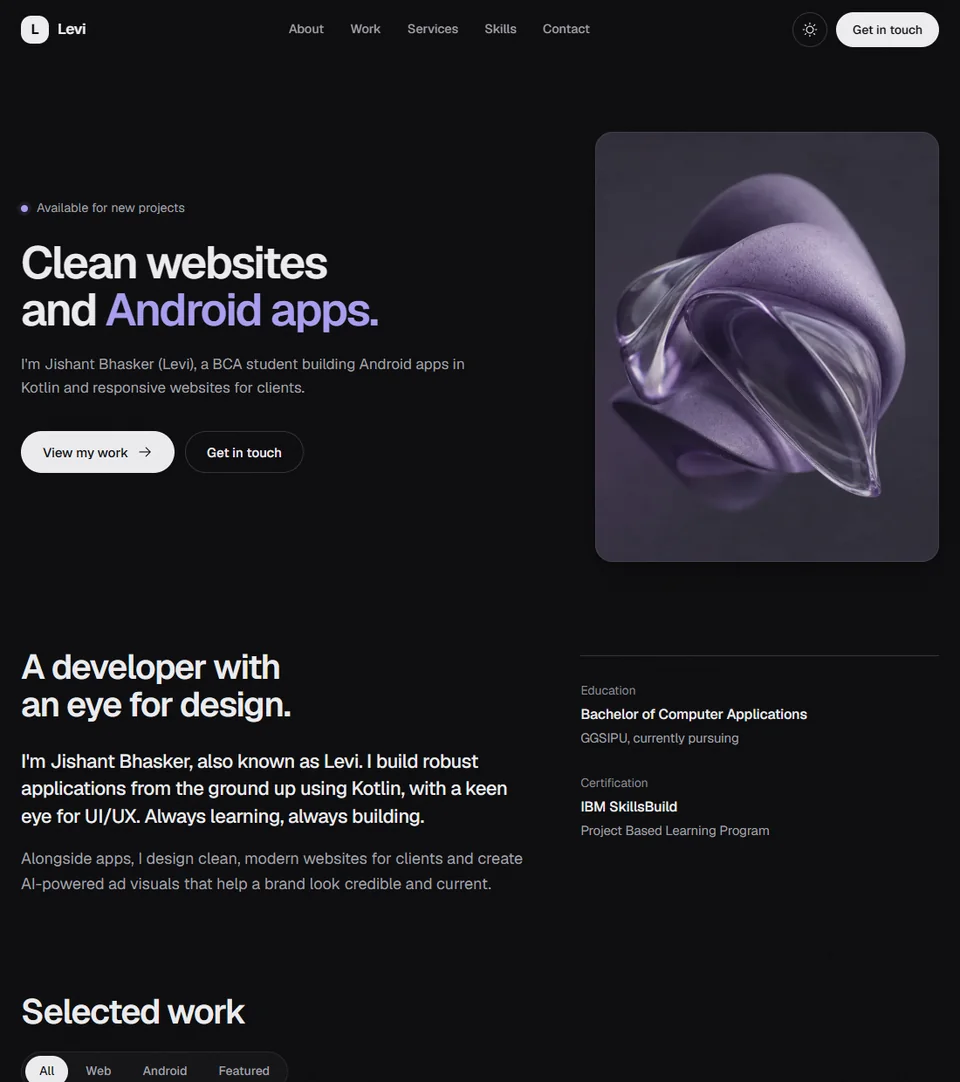
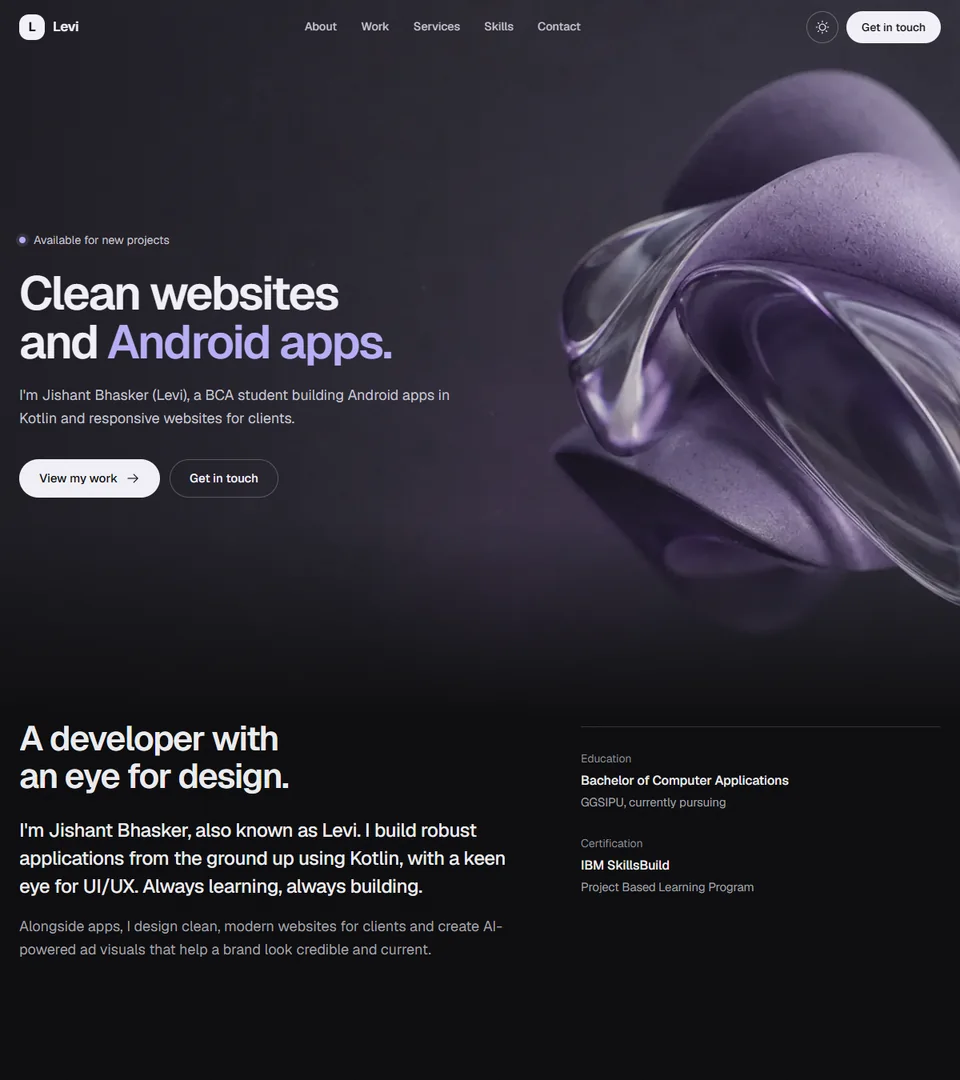
Use the abstract art as full-bleed hero backgrounds, not image cards
- Home hero: the sculpture is now the section background with the text over
  the calm left side (wide art for desktop/landscape, tall art for portrait
  phones and tablets); services hero uses the glass-slab art the same way
- Header goes light-on-dark over the art and gets its normal background on
  scroll; tokens re-pointed inside .art-band so both themes work
- Art melts into the page in dark theme; clean straight edge in light theme
- Portrait art is bottom-anchored with padding derived from the image's
  proportions, so the artwork never sits behind the buttons at any width
- Landscape: text column capped to ~half width; short landscape phones keep
  the CTAs above the fold
- Project tiles: art covers removed; only the real screenshot of this site
  keeps an image, others use a quiet placeholder until real screenshots exist
- Tests: contrast measured against the actual pixels behind each hero text
  element (WCAG AA) at six sizes

diff --git a/css/style.css b/css/style.css
@@ -47,6 +47,7 @@
   --shadow-md: 0 24px 48px -24px rgba(40, 32, 110, 0.32), 0 2px 6px rgba(40, 32, 110, 0.05);
 
   --grain-opacity: 0.045;
+  --page-bg: var(--bg); /* the real page background, even inside a dark art band */
 
   --r-lg: 20px;
   --r-sm: 12px;
@@ -299,12 +300,47 @@ h2.section-title {
 .hero + .section, .section + .section { padding-top: 0; }
 .section-head { margin-bottom: clamp(32px, 4.5vw, 56px); }
 
-/* ---------- Hero ---------- */
-.hero { padding: clamp(24px, 5vw, 64px) 0 clamp(64px, 9vw, 120px); }
-.hero-grid {
-  display: grid; grid-template-columns: minmax(0, 1.2fr) minmax(0, 0.8fr);
-  gap: clamp(32px, 6vw, 88px); align-items: center;
+/* ---------- Art bands (home hero + services hero) ----------
+   The artwork is a full-bleed background behind the text, never a boxed card.
+   Inside a band the tokens are re-pointed to a dark palette, so every child
+   (headline, buttons, status) is light-on-dark automatically in BOTH themes.
+   The band melts into the page at the bottom, so there is no hard seam. */
+.art-band {
+  position: relative; isolation: isolate;
+  --ink: #f2f0f7; --bg: #09090b; --surface: #15151a;
+  --muted: #c6c5d2; --faint: #a6a5b4;
+  --line: rgba(255, 255, 255, 0.1); --line-strong: rgba(255, 255, 255, 0.24);
+  --accent: #b6adf6; --accent-soft: rgba(182, 173, 246, 0.14);
+  color: var(--ink);
+  background-color: #1d1c24;
+  /* sit behind the transparent sticky header */
+  margin-top: calc(var(--header-h) * -1);
+  padding-top: var(--header-h);
 }
+.art-band::before {
+  content: ''; position: absolute; inset: 0; z-index: -2;
+  background-image: var(--band-art); background-repeat: no-repeat;
+  background-size: cover; background-position: 50% 50%;
+}
+.art-band::after {
+  content: ''; position: absolute; inset: 0; z-index: -1; pointer-events: none;
+  background:
+    linear-gradient(180deg, transparent 72%, var(--page-bg) 100%),
+    linear-gradient(90deg, rgba(9, 9, 11, 0.5) 0%, rgba(9, 9, 11, 0.12) 52%, transparent 78%);
+}
+/* Light theme: end the band with a clean straight edge (a dark-to-light fade would look muddy grey) */
+:root:not([data-theme='dark']) .art-band::after {
+  background: linear-gradient(90deg, rgba(9, 9, 11, 0.5) 0%, rgba(9, 9, 11, 0.12) 52%, transparent 78%);
+}
+
+.hero {
+  --band-art: url('../images/hero-bg.webp');
+  display: flex; align-items: center;
+  min-height: 640px;
+  min-height: clamp(600px, 92vh, 900px);
+  padding-bottom: clamp(72px, 9vw, 128px);
+}
+.hero-copy { max-width: 640px; padding-top: clamp(16px, 4vw, 56px); }
 .status {
   display: inline-flex; align-items: center; gap: 10px; margin-bottom: 24px;
   font-size: 0.9rem; color: var(--muted);
@@ -313,19 +349,16 @@ h2.section-title {
   content: ''; width: 8px; height: 8px; border-radius: 50%; background: var(--accent);
   box-shadow: 0 0 0 4px var(--accent-soft);
 }
-.hero h1 { font-size: clamp(2.5rem, 4.7vw, 4rem); margin-bottom: 22px; }
+.hero h1 { font-size: clamp(2.5rem, 4.9vw, 4.25rem); margin-bottom: 22px; }
 .hero .lead { margin-bottom: 36px; }
 .hero-cta { display: flex; flex-wrap: wrap; gap: 12px; }
 
-.hero-media {
-  position: relative; aspect-ratio: 4 / 5; margin-top: 28px;
-  border-radius: var(--r-lg); overflow: hidden;
-  background: #1b1a22; box-shadow: var(--shadow-md);
-}
-.hero-media img { width: 100%; height: 100%; object-fit: cover; object-position: 52% 50%; }
-.hero-media::after {
-  content: ''; position: absolute; inset: 0; border-radius: inherit; pointer-events: none;
-  box-shadow: inset 0 0 0 1px rgba(255, 255, 255, 0.08);
+/* The header sits on dark art at the top of the page: light header until it gets its own background */
+.has-hero-art .site-header:not(.is-scrolled):not(.menu-open) {
+  --ink: #f2f0f7; --bg: #09090b; --surface: #15151a;
+  --muted: #c6c5d2; --line-strong: rgba(255, 255, 255, 0.28);
+  --accent: #b6adf6; --accent-soft: rgba(182, 173, 246, 0.16);
+  color: var(--ink);
 }
 
 /* ---------- Work ---------- */
@@ -366,7 +399,11 @@ h2.section-title {
 @media (hover: hover) { .tile:hover .tile-media img { transform: scale(1.035); } }
 
 /* when a project has no image, fall back to a quiet tinted tile with an icon */
-.tile-fallback { display: grid; place-items: center; width: 100%; height: 100%; color: var(--faint); background: var(--accent-soft); }
+.tile-fallback {
+  display: grid; place-items: center; width: 100%; height: 100%; color: var(--accent);
+  background-color: var(--accent-soft);
+  background-image: radial-gradient(var(--line-strong) 1px, transparent 1.2px); background-size: 18px 18px;
+}
 .tile-fallback .icon { width: 44px; height: 44px; }
 
 .tile-body { display: grid; gap: 8px; }
@@ -497,8 +534,14 @@ h2.section-title {
 @media (hover: hover) { .back-to-top:hover { border-color: var(--ink); } }
 
 /* ---------- Services page ---------- */
-.page-hero { padding: clamp(40px, 7vw, 96px) 0 clamp(40px, 6vw, 72px); }
-.page-hero h1 { font-size: clamp(2.4rem, 5.6vw, 4.5rem); max-width: 17ch; margin-bottom: 24px; }
+.page-hero {
+  --band-art: url('../images/services-bg.webp');
+  display: flex; align-items: center;
+  min-height: clamp(420px, 60vh, 560px);
+  padding-bottom: clamp(56px, 7vw, 96px);
+}
+.page-hero .container { padding-top: clamp(16px, 3vw, 40px); }
+.page-hero h1 { font-size: clamp(2.4rem, 4.5vw, 3.9rem); max-width: 16ch; margin-bottom: 24px; }
 
 .offers { display: grid; grid-template-columns: repeat(2, minmax(0, 1fr)); gap: 24px; }
 .offer {
@@ -538,8 +581,6 @@ h2.section-title {
 
 /* ---------- Responsive ---------- */
 @media (max-width: 1020px) {
-  .hero-grid { grid-template-columns: 1fr; }
-  .hero-media { aspect-ratio: 16 / 11; margin-top: 8px; max-width: 640px; }
   .about-grid { grid-template-columns: 1fr; }
   .bento { grid-template-columns: minmax(0, 1fr); }
   .bento-a, .bento-b, .bento-c { grid-column: auto; }
@@ -589,7 +630,6 @@ h2.section-title {
   .step:last-child { padding-bottom: 0; }
   .step::before { top: 4px; left: -36px; }
   .filters { width: 100%; justify-content: space-between; overflow-x: auto; }
-  .hero-media { aspect-ratio: 4 / 3; max-width: none; }
 
   /* email menu becomes a bottom sheet on phones */
 }
@@ -612,6 +652,55 @@ h2.section-title {
   }
   .mail-menu.is-open { transform: none; }
   .mail-menu a, .mail-menu button { min-height: 52px; }
+}
+
+/* ---------- Art bands on smaller screens ----------
+   Narrow or landscape-phone windows keep the wide art but get a stronger scrim behind the text.
+   Portrait screens up to 1100px switch to the tall art: it is anchored to the bottom at full width
+   and the bottom padding is derived from the image's own proportions, so the sculpture always
+   starts below the buttons, at every width (no overlap, no matter how the text wraps). */
+@media (max-width: 1100px) {
+  .art-band::after {
+    background:
+      linear-gradient(180deg, transparent 80%, var(--page-bg) 100%),
+      linear-gradient(90deg, rgba(9, 9, 11, 0.78) 0%, rgba(9, 9, 11, 0.55) 48%, rgba(9, 9, 11, 0.1) 80%);
+  }
+  :root:not([data-theme='dark']) .art-band::after {
+    background: linear-gradient(90deg, rgba(9, 9, 11, 0.78) 0%, rgba(9, 9, 11, 0.55) 48%, rgba(9, 9, 11, 0.1) 80%);
+  }
+}
+
+/* Landscape windows/phones: keep the text in the left half, where the art is calm */
+@media (max-width: 1100px) and (orientation: landscape) {
+  .hero-copy { max-width: 54%; }
+  .page-hero h1, .page-hero .lead { max-width: 54%; }
+}
+
+@media (max-width: 1100px) and (orientation: portrait) {
+  .art-band::before { background-size: 100% auto; background-position: 50% 100%; }
+  .art-band::after {
+    background:
+      linear-gradient(180deg, transparent 82%, var(--page-bg) 100%),
+      linear-gradient(180deg, rgba(9, 9, 11, 0.4) 0%, transparent 50%);
+  }
+  :root:not([data-theme='dark']) .art-band::after { background: linear-gradient(180deg, rgba(9, 9, 11, 0.4) 0%, transparent 50%); }
+
+  /* hero-bg-m.webp is 900x1760 and the sculpture starts at y=1000, so it begins 0.845 x width above the bottom edge */
+  .hero { --band-art: url('../images/hero-bg-m.webp'); align-items: flex-start; min-height: 0; padding-bottom: calc(84.5vw + 28px); }
+  .hero-copy { padding-top: 12px; max-width: 560px; }
+
+  /* services-bg-m.webp is 900x1500 and the slabs start at y=1000, so they begin 0.726 x width above the bottom edge */
+  .page-hero { --band-art: url('../images/services-bg-m.webp'); align-items: flex-start; min-height: 0; padding-bottom: calc(72.6vw + 28px); }
+}
+
+/* Short landscape screens (phones on their side): keep the hero's buttons above the fold */
+@media (max-height: 520px) and (orientation: landscape) {
+  .hero { min-height: 0; align-items: flex-start; padding-bottom: 48px; }
+  .hero-copy { padding-top: 0; }
+  .hero .status { margin-bottom: 12px; }
+  .hero h1 { font-size: 2rem; margin-bottom: 12px; }
+  .hero .lead { font-size: 1rem; margin-bottom: 20px; }
+  .page-hero { min-height: 0; padding-bottom: 48px; }
 }
 
 @media (max-width: 520px) {

diff --git a/index.html b/index.html
@@ -32,7 +32,8 @@
   </script>
 
   <link rel="preload" href="fonts/geist.woff2" as="font" type="font/woff2" crossorigin />
-  <link rel="preload" href="images/hero.webp" as="image" type="image/webp" fetchpriority="high" />
+  <link rel="preload" href="images/hero-bg.webp" as="image" type="image/webp" media="(min-width: 1101px), (orientation: landscape)" fetchpriority="high" />
+  <link rel="preload" href="images/hero-bg-m.webp" as="image" type="image/webp" media="(max-width: 1100px) and (orientation: portrait)" fetchpriority="high" />
   <link rel="stylesheet" href="css/style.css" />
 
   <script type="application/ld+json">
@@ -47,7 +48,7 @@
     }
   </script>
 </head>
-<body>
+<body class="has-hero-art">
   <a class="skip-link" href="#main">Skip to content</a>
   <div id="sentinel-top" class="sentinel" aria-hidden="true"></div>
   <div id="sentinel-fold" class="sentinel" aria-hidden="true"></div>
@@ -84,24 +85,20 @@
   </header>
 
   <main id="main">
-    <!-- Hero: asymmetric split, text left, image right -->
-    <section class="hero" id="top" aria-labelledby="hero-title">
-      <div class="container hero-grid">
+    <!-- Hero: full-bleed art background, text over the calm left side -->
+    <section class="hero art-band" id="top" aria-labelledby="hero-title">
+      <div class="container">
         <div class="hero-copy">
-          <p class="status rise">Available for new projects</p>
-          <h1 class="display rise" id="hero-title" style="--d:70ms">Clean websites and <em>Android apps.</em></h1>
-          <p class="lead rise" style="--d:140ms">I'm Jishant Bhasker (Levi), a BCA student building Android apps in Kotlin and responsive websites for clients.</p>
-          <div class="hero-cta rise" style="--d:210ms">
-            <a class="btn btn-primary" href="#work">View my work
-              <svg class="icon icon-go" aria-hidden="true"><use href="images/icons.svg#i-arrow-right"/></svg>
-            </a>
-            <a class="btn btn-secondary" href="mailto:bhaskerjishant@gmail.com">Get in touch</a>
-          </div>
+        <p class="status rise">Available for new projects</p>
+        <h1 class="display rise" id="hero-title" style="--d:70ms">Clean websites and <em>Android apps.</em></h1>
+        <p class="lead rise" style="--d:140ms">I'm Jishant Bhasker (Levi), a BCA student building Android apps in Kotlin and responsive websites for clients.</p>
+        <div class="hero-cta rise" style="--d:210ms">
+          <a class="btn btn-primary" href="#work">View my work
+            <svg class="icon icon-go" aria-hidden="true"><use href="images/icons.svg#i-arrow-right"/></svg>
+          </a>
+          <a class="btn btn-secondary" href="mailto:bhaskerjishant@gmail.com">Get in touch</a>
         </div>
-
-        <figure class="hero-media rise" style="--d:140ms">
-          <img src="images/hero.webp" width="1280" height="720" alt="Abstract sculpture of clear glass folded around a matte violet form on a dark graphite background" fetchpriority="high" decoding="async" />
-        </figure>
+        </div>
       </div>
     </section>
 

diff --git a/services.html b/services.html
@@ -32,7 +32,7 @@
   <link rel="preload" href="fonts/geist.woff2" as="font" type="font/woff2" crossorigin />
   <link rel="stylesheet" href="css/style.css" />
 </head>
-<body>
+<body class="has-hero-art">
   <a class="skip-link" href="#main">Skip to content</a>
   <div id="sentinel-top" class="sentinel" aria-hidden="true"></div>
   <div id="sentinel-fold" class="sentinel" aria-hidden="true"></div>
@@ -69,7 +69,7 @@
   </header>
 
   <main id="main">
-    <section class="page-hero" aria-labelledby="services-title">
+    <section class="page-hero art-band" aria-labelledby="services-title">
       <div class="container">
         <h1 class="display rise" id="services-title">Built to help your brand look premium, work smoothly, and <em>convert better.</em></h1>
         <p class="lead rise" style="--d:100ms">I create sharp digital experiences across ads, websites, and mobile apps. The goal is simple: make your business look credible, modern, and worth contacting.</p>
